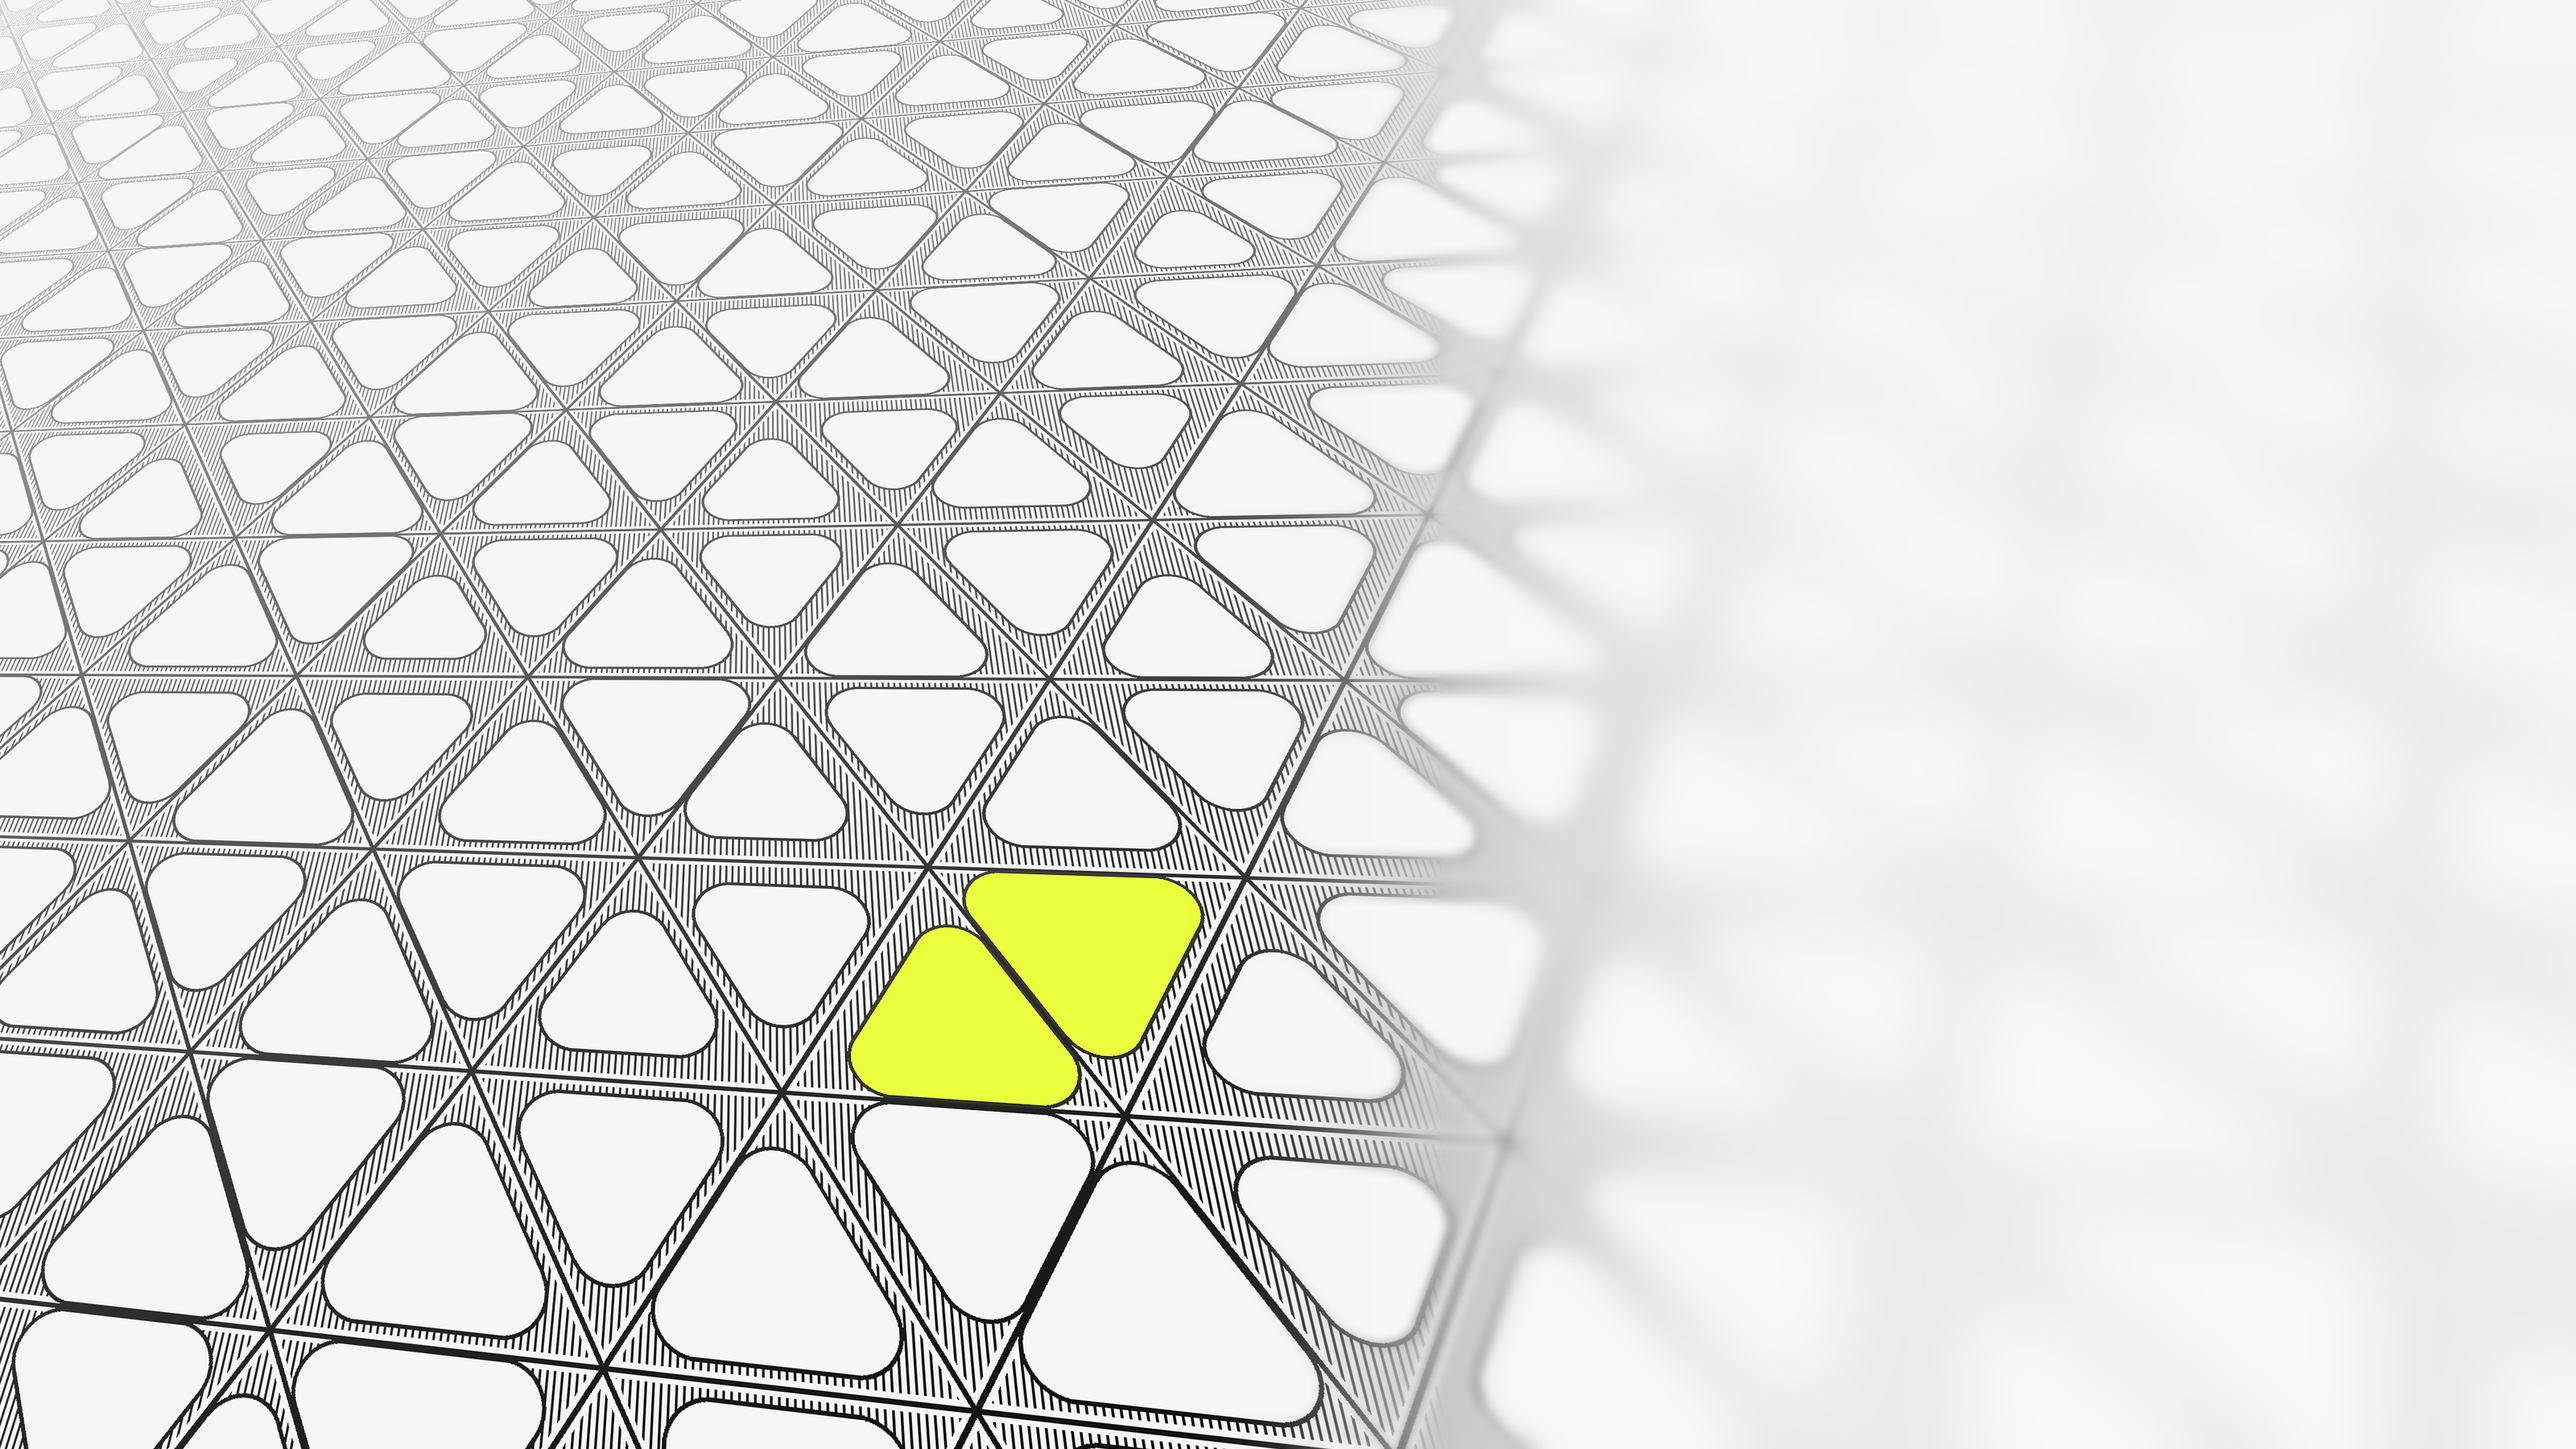
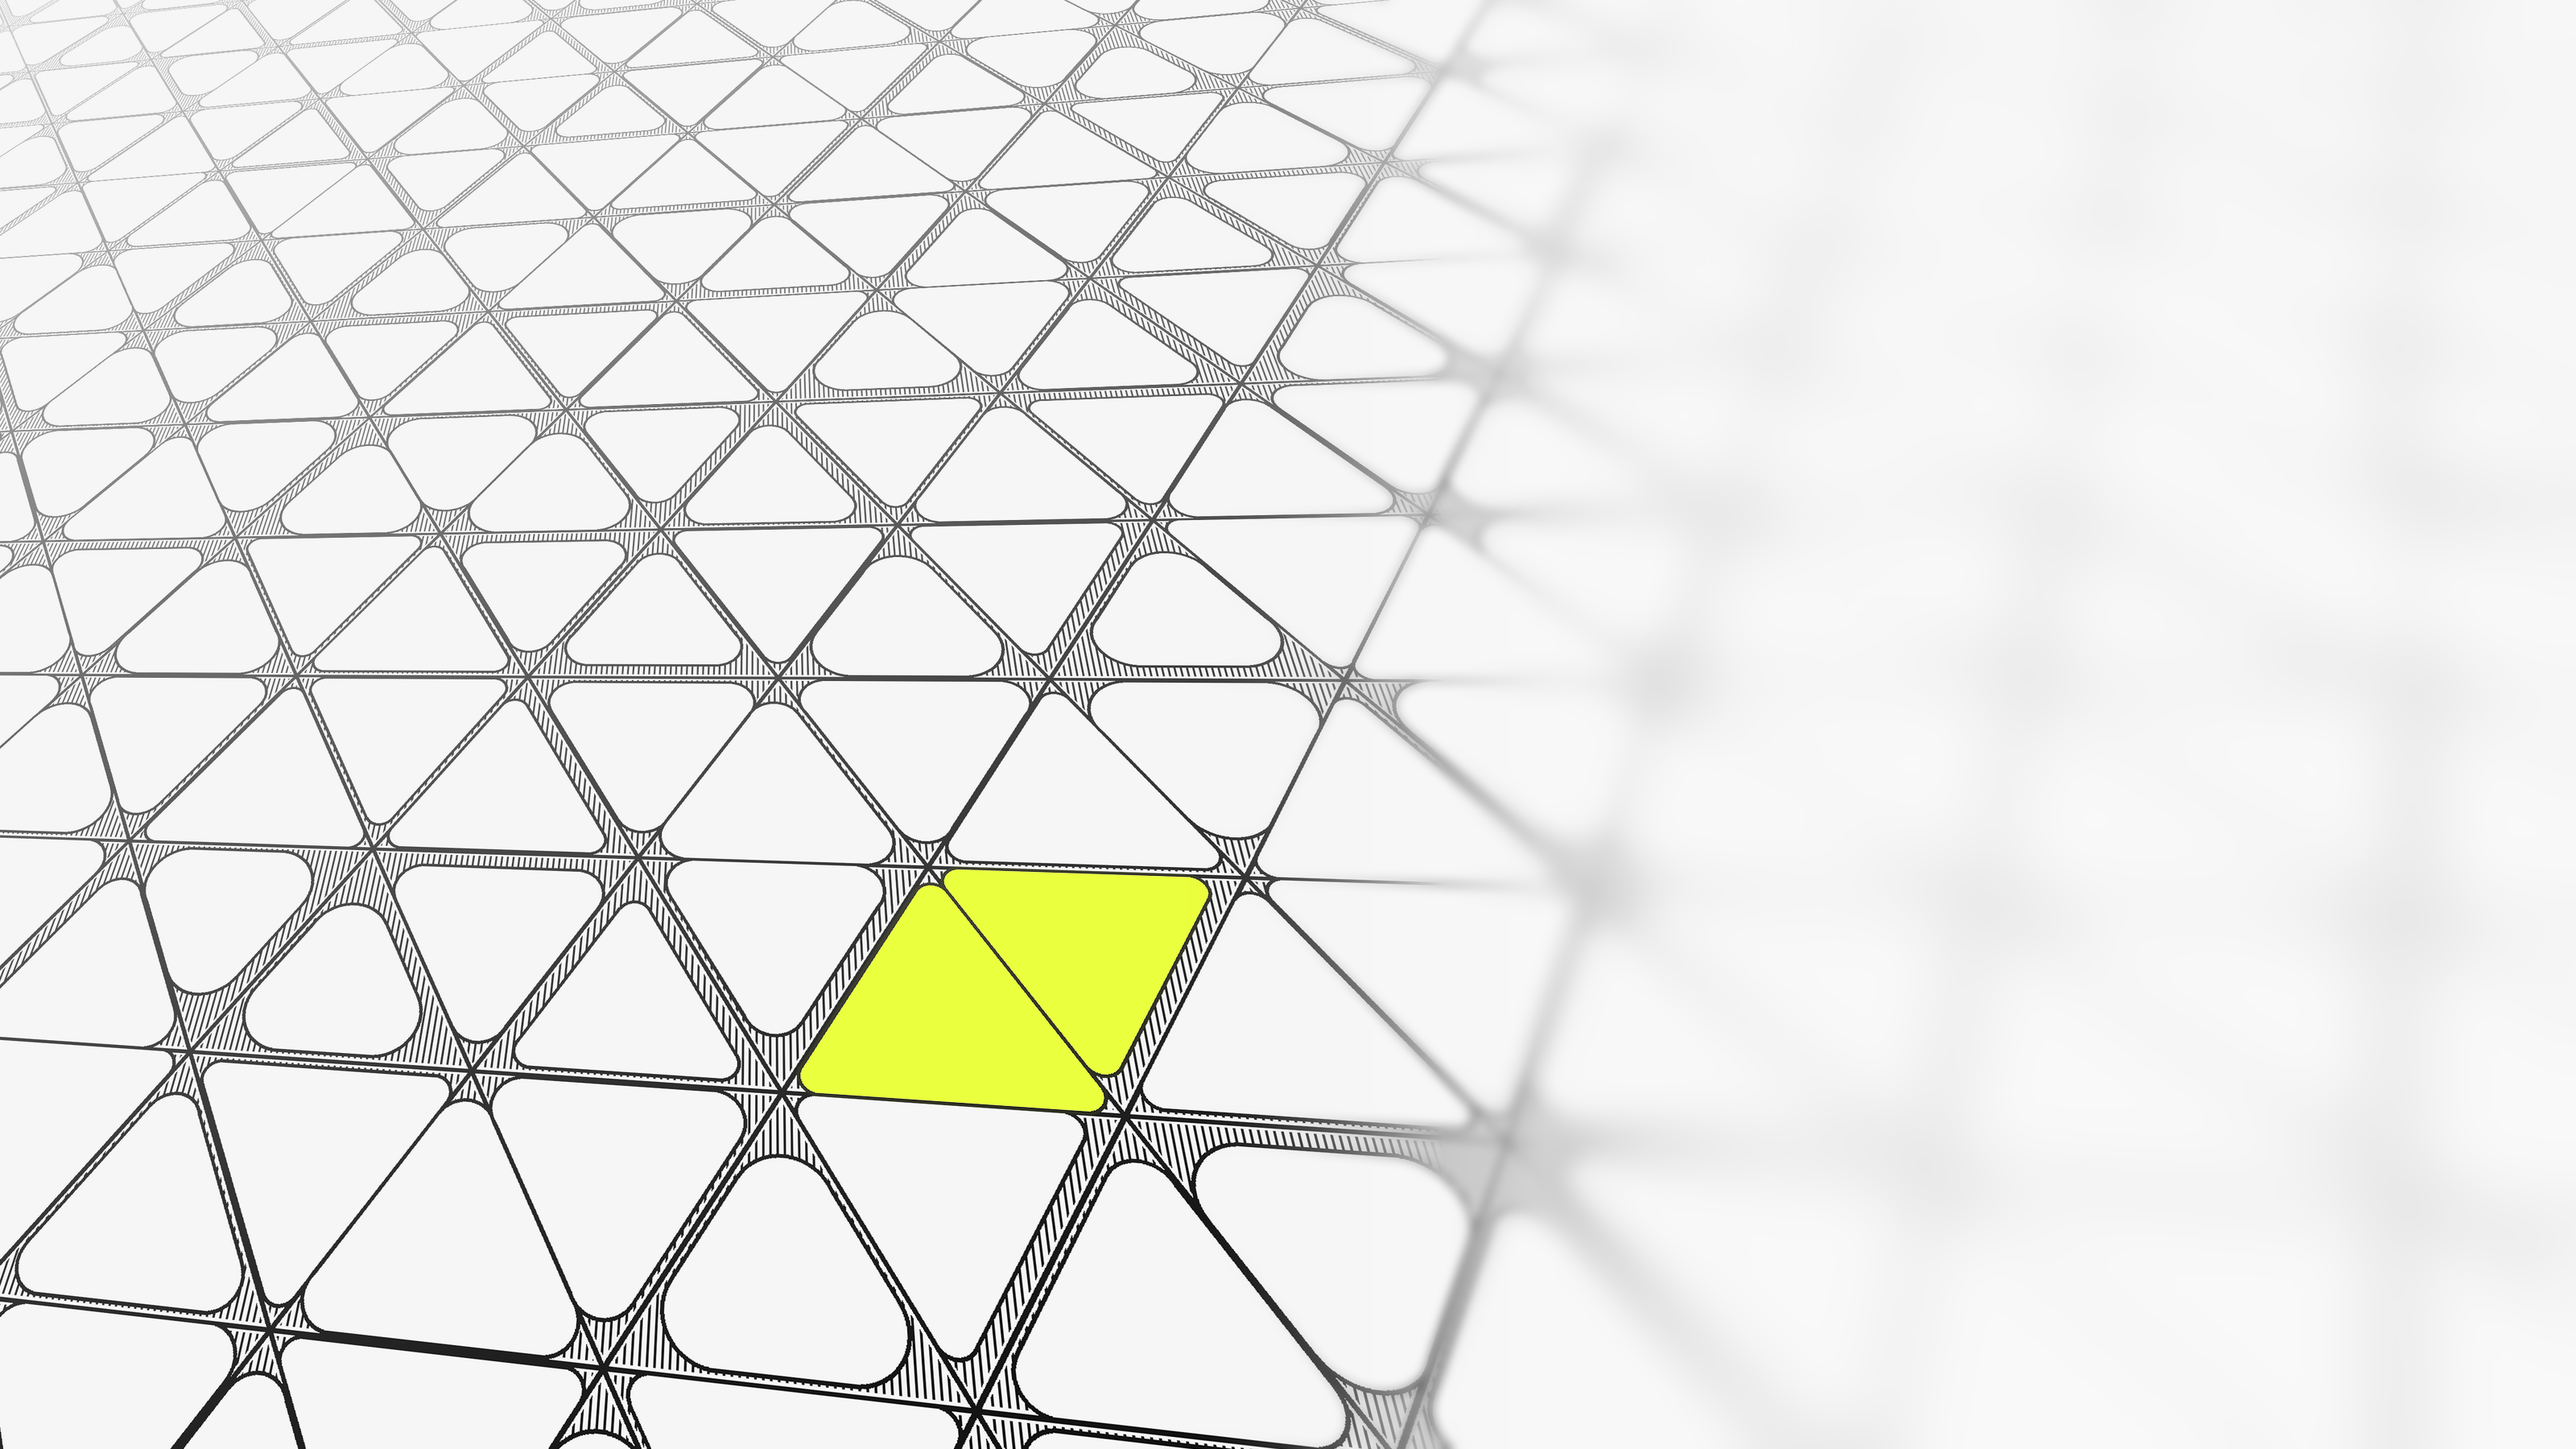
Cover: more varied tiles, less hatching
Tile edges sit on the line more often, channels are narrower, corner
radius varies per tile.

Claude-Session: https://claude.ai/code/session_016TfQQw9fzurNqi1rBMR1dU

Changed region(s): [[0.0, 0.0, 0.625, 1.0], [0.5938, 0.6222, 0.625, 0.6533]]

diff --git a/report/assets/cover_pattern.py b/report/assets/cover_pattern.py
@@ -22,11 +22,12 @@ def grid_lines(color, width):                                                # t
         y = k * h; d.line([(0, y), (TW, y)], fill=color, width=width)
         for sgn in (1, -1):
             x = k * a; d.line([(x, 0), (x + sgn * TW / np.sqrt(3), TW)], fill=color, width=width)
-grid_lines(PAPER, 19)                       # a clear strip either side, so the line reads against the hatching
+grid_lines(PAPER, 13)                       # a clear strip either side, so the line reads against the hatching
 grid_lines(INK, 6)
 rng = np.random.default_rng(15)
-INSETS = np.array([7.0, 24.0, 44.0]); PROB = [0.32, 0.46, 0.22]   # tight to the line, normal, wide hatched channel
-def rounded(tri, grow, ins):
+INSETS = np.array([3.0, 7.0, 14.0, 30.0]); PROB = [0.38, 0.27, 0.23, 0.12]   # on the line, close, narrow channel, the occasional wide one
+RADII = np.array([22.0, 40.0, 62.0]); RPROB = [0.3, 0.45, 0.25]                # some corners nearly sharp, some very round
+def rounded(tri, grow, ins, rc):
     """Rounded triangle inside tri, each edge pulled in by its own inset (ins[k] for edge k -> k+1)."""
     c = np.mean(tri, axis=0); P = [np.array(p, float) for p in tri]; lines = []
     for k in range(3):
@@ -46,11 +47,11 @@ def rounded(tri, grow, ins):
             pts.append(tuple(p + n * (rc + grow)))
     hull = sorted(pts, key=lambda p: np.arctan2(p[1] - cc[1], p[0] - cc[0]))
     return hull, inner
-def draw_tile(dr, tri, fill, ins):
-    hull, inner = rounded(tri, sw, ins)
+def draw_tile(dr, tri, fill, ins, rc):
+    hull, inner = rounded(tri, sw, ins, rc)
     dr.polygon(hull, fill=INK)
     for p in inner: dr.ellipse([p[0] - rc - sw, p[1] - rc - sw, p[0] + rc + sw, p[1] + rc + sw], fill=INK)
-    hull, inner = rounded(tri, 0, ins)
+    hull, inner = rounded(tri, 0, ins, rc)
     dr.polygon(hull, fill=fill)
     for p in inner: dr.ellipse([p[0] - rc, p[1] - rc, p[0] + rc, p[1] + rc], fill=fill)
 # perspective: output corners map to a quad on the flat texture (near bottom right, far top left)
@@ -70,9 +71,9 @@ NEON_TILES = {(best[0], best[1], 0), (best[0], best[1], 1)}           # an up an
 neon_mask = Image.new("L", (TW, TW), 0); dn_ = ImageDraw.Draw(neon_mask)
 for i, j, o, tri in tiles:
     if all(-a < p[0] < TW + a and -a < p[1] < TW + a for p in tri):
-        ins = rng.choice(INSETS, 3, p=PROB)
-        draw_tile(d, tri, PAPER, ins)
-        if (i, j, o) in NEON_TILES: draw_tile(dn_, tri, 255, ins)
+        ins = rng.choice(INSETS, 3, p=PROB); rcv = rng.choice(RADII, p=RPROB)
+        draw_tile(d, tri, PAPER, ins, rcv)
+        if (i, j, o) in NEON_TILES: draw_tile(dn_, tri, 255, ins, rcv)
 out = tex.transform((W * Z, H * Z), Image.PERSPECTIVE, tuple(coef), Image.BICUBIC).resize((W * 2, H * 2), Image.LANCZOS)
 nm = neon_mask.transform((W * Z, H * Z), Image.PERSPECTIVE, tuple(coef), Image.BICUBIC).resize((W * 2, H * 2), Image.LANCZOS)
 g = np.asarray(out).astype(np.float32)
